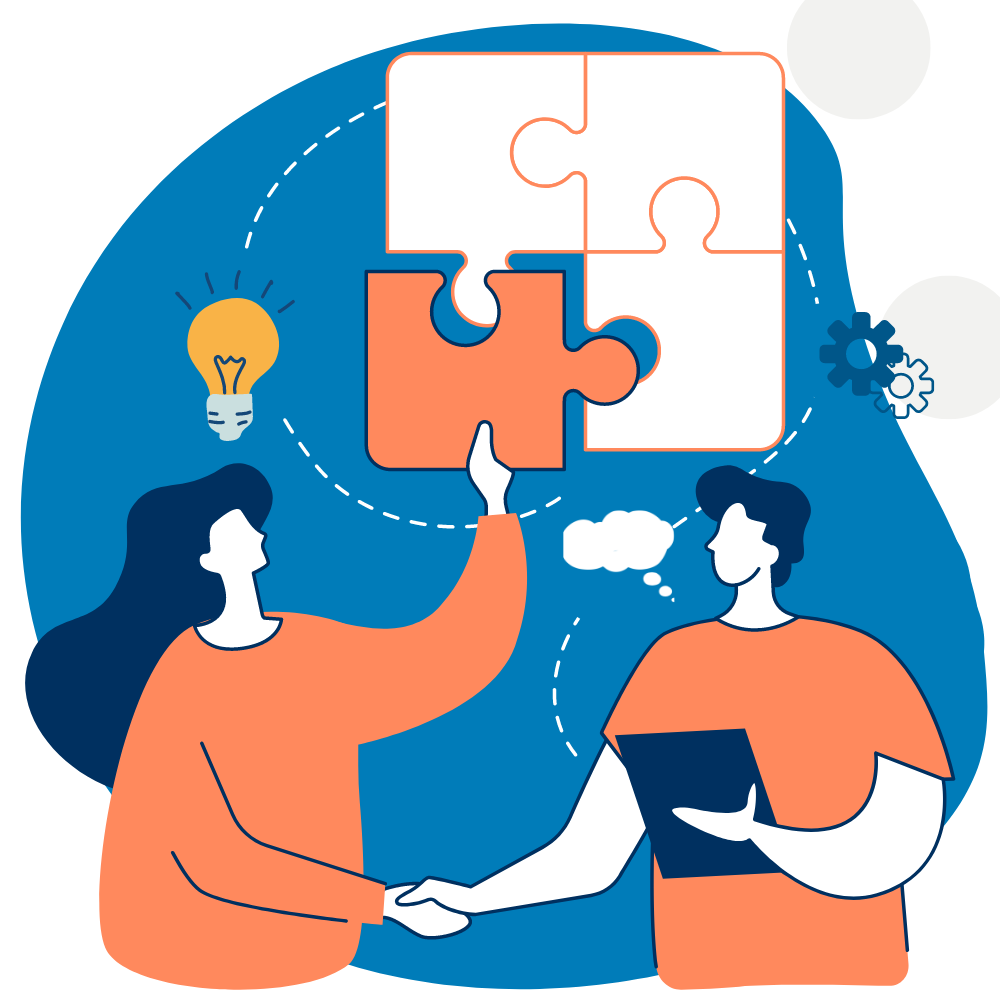
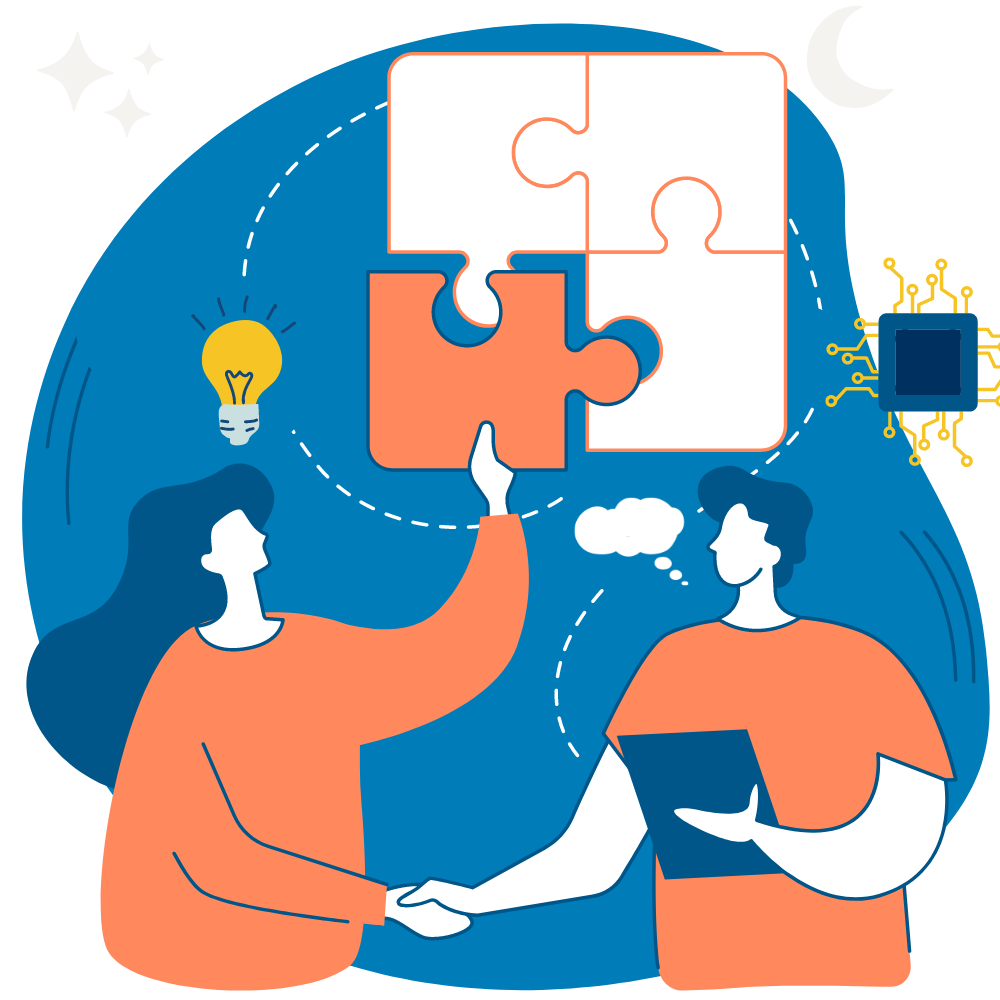
Fixed landing page bugs and adjusted the dark-mode.

diff --git a/frontend/src/components/landingPage/LandingPage.js b/frontend/src/components/landingPage/LandingPage.js
@@ -2,6 +2,9 @@ import React from 'react';
 import { useState } from "react";
 import { useNavigate } from 'react-router-dom';
 import { BsFillMoonStarsFill } from "react-icons/bs";
+import { BsTwitter } from "react-icons/bs";
+import { BsGithub } from "react-icons/bs";
+import { HiOutlineDocumentText } from "react-icons/hi";
 
 export default function LandingPage() {
   const[darkMode, setDarkMode] = useState(false);
@@ -15,7 +18,7 @@ export default function LandingPage() {
             <div className="w-full flex items-center justify-center pt-20">
             <BsFillMoonStarsFill
                   onClick={() => setDarkMode(!darkMode)}
-                  className=" cursor-pointer text-2xl text-navy dark:text-lorange"
+                  className="cursor-pointer text-2xl text-navy dark:text-lorange"
                 />
             </div>
             <section className="bg-cream dark:bg-navy">
@@ -23,12 +26,12 @@ export default function LandingPage() {
                 <div className="mr-auto place-self-center lg:col-span-7">
                   <h1 className="text-navy max-w-4xl mb-6 ml-10 text-4xl font-extrabold tracking-tight leading-none md:text-5xl xl:text-6xl dark:text-cream">Life's too short to hate your job!</h1>
                     <p className=" text-blue max-w-3xl mb-6 ml-10 text-2xl font-medium dark:text-gray-400">Let Career Companion be your personal coach and help you build a career you'll love.</p>
-                      <div className="flex flex-row items-left justify-left sm:items-center sm:justify-center mb-16 ml-10 space-x-6">
-                        <a href="#about" className="w-40 inline-flex items-center justify-center bg-blue hover:bg-lblue border-2 border-blue px-5 py-3 rounded-xl text-base font-bold text-center text-cream bg-primary-700 hover:bg-primary-800 focus:ring-4 focus:ring-primary-300 dark:focus:ring-primary-900" onClick={() => window.scrollTo({ top: document.getElementById("about").offsetTop, behavior: 'smooth' })}>
+                      <div className="flex flex-row items-left justify-left  mb-16 ml-10 space-x-6">
+                        <a href="#about" className="w-40 inline-flex items-center justify-center bg-blue dark:bg-lblue hover:bg-lblue hover:dark:bg-blue border-2 border-blue px-5 py-3 rounded-xl text-base font-bold text-center text-cream bg-primary-700 hover:bg-primary-800 focus:ring-4 focus:ring-primary-300 dark:focus:ring-primary-900" onClick={() => window.scrollTo({ top: document.getElementById("about").offsetTop, behavior: 'smooth' })}>
                           Learn More
                           <svg className="w-5 h-5 ml-2 -mr-1" fill="currentColor" viewBox="0 0 20 20" xmlns="http://www.w3.org/2000/svg"><path fill-rule="evenodd" d="M10.293 3.293a1 1 0 011.414 0l6 6a1 1 0 010 1.414l-6 6a1 1 0 01-1.414-1.414L14.586 11H3a1 1 0 110-2h11.586l-4.293-4.293a1 1 0 010-1.414z" clip-rule="evenodd"></path></svg>
                         </a>
-                        <a href="/signup" className="w-40 inline-flex items-center justify-center px-5 py-3 text-base font-bold text-center text-blue border-2 border-lorange hover:border-blue rounded-xl hover:bg-gray-100 focus:ring-4 focus:ring-gray-100 dark:text-white dark:border-gray-700 dark:hover:bg-gray-700 dark:focus:ring-gray-800" onClick={() => navigate('/signup')}>
+                        <a href="/signup" className="w-40 inline-flex items-center justify-center px-5 py-3 text-base font-bold text-center bg-lorange dark:bg-cream hover:bg-lorange hover:dark:bg-lorange  text-navy dark:text-blue border-2 border-lorange hover:border-blue rounded-xl focus:ring-4 focus:ring-gray-100 dark:border-gray-700 dark:hover:bg-gray-700 dark:focus:ring-gray-800" onClick={() => navigate('/signup')}>
                           Sign Up
                         </a> 
                       </div>
@@ -62,7 +65,7 @@ export default function LandingPage() {
               </div>                
             </div>
             <div className="w-full flex items-center justify-center pt-20 lg:pt-5">
-              <a href="#team" className="w-52 inline-flex items-center justify-center bg-blue hover:bg-lblue px-5 py-3 rounded-xl text-base font-bold text-center text-cream bg-primary-700 hover:bg-primary-800 focus:ring-4 focus:ring-primary-300 dark:focus:ring-primary-900">
+              <a href="#team" className="w-52 inline-flex items-center justify-center bg-blue dark:bg-lblue hover:bg-lblue dark:hover:bg-blue px-5 py-3 rounded-xl text-base font-bold text-center text-cream bg-primary-700 hover:bg-primary-800 focus:ring-4 focus:ring-primary-300 dark:focus:ring-primary-900">
                 Meet the Team 
                 <svg className="w-5 h-5 ml-2 -mr-1" fill="currentColor" viewBox="0 0 20 20" xmlns="http://www.w3.org/2000/svg"><path fill-rule="evenodd" d="M10.293 3.293a1 1 0 011.414 0l6 6a1 1 0 010 1.414l-6 6a1 1 0 01-1.414-1.414L14.586 11H3a1 1 0 110-2h11.586l-4.293-4.293a1 1 0 010-1.414z" clip-rule="evenodd"></path></svg>
               </a>
@@ -74,150 +77,150 @@ export default function LandingPage() {
                 <h2 className="text-navy max-w-4xl mb-6 ml-10 pb-2 text-4xl text-center font-extrabold tracking-tight leading-none md:text-5xl xl:text-6xl dark:text-cream border-b-2 border-lorange border-dashed">OUR TEAM</h2>
               </div> 
               <div className="grid gap-8 mb-6 lg:mb-16 md:grid-cols-2">
-                <div className="h-72 items-center bg-cream border-2 border-lorange rounded-lg shadow sm:flex dark:bg-gray-800 dark:border-gray-700">
+                <div className="h-72 items-center bg-cream border-2 border-lorange rounded-lg shadow sm:flex dark:bg-blue dark:border-lorange">
                   <a href="#">
                     <img className="rounded-full p-2" src="/sarah-avatar.png" alt="Sarah Avatar" />
                   </a>
                   <div className="">
-                    <h3 className="text-xl font-bold tracking-tight text-navy dark:text-navy px-2">
+                    <h3 className="text-xl font-bold tracking-tight text-navy dark:text-cream px-2">
                       Sarah Davies
                     </h3>
-                    <span className="text-blue dark:text-gray-400 px-2">Full-Stack Web Developer</span>
-                    <p className="mt-3 mb-4 font-light text-lblue dark:text-gray-400 px-2">Sarah loves gymming, exploring the Kent wilderness and feeding her wanderlust.</p>
+                    <span className="text-blue dark:text-gray-200 px-2">Full-Stack Web Developer</span>
+                    <p className="mt-3 mb-4 font-light text-lblue dark:text-gray-300 px-2">Sarah loves gymming, exploring the Kent wilderness and feeding her wanderlust.</p>
                     <ul className="flex space-x-4 sm:mt-0 px-2">
                       <li>
                         <a href="#" className="text-navy hover:text-gray-900 dark:hover:text-white">
-                          <svg className="w-5 h-5" fill="currentColor" viewBox="0 0 24 24" aria-hidden="true"><path fill-rule="evenodd" d="M12 2C6.48 2 2 6.48 2 12s4.48 10 10 10c5.51 0 10-4.48 10-10S17.51 2 12 2zm6.605 4.61a8.502 8.502 0 011.93 5.314c-.281-.054-3.101-.629-5.943-.271-.065-.141-.12-.293-.184-.445a25.416 25.416 0 00-.564-1.236c3.145-1.28 4.577-3.124 4.761-3.362zM12 3.475c2.17 0 4.154.813 5.662 2.148-.152.216-1.443 1.941-4.48 3.08-1.399-2.57-2.95-4.675-3.189-5A8.687 8.687 0 0112 3.475zm-3.633.803a53.896 53.896 0 013.167 4.935c-3.992 1.063-7.517 1.04-7.896 1.04a8.581 8.581 0 014.729-5.975zM3.453 12.01v-.26c.37.01 4.512.065 8.775-1.215.25.477.477.965.694 1.453-.109.033-.228.065-.336.098-4.404 1.42-6.747 5.303-6.942 5.629a8.522 8.522 0 01-2.19-5.705zM12 20.547a8.482 8.482 0 01-5.239-1.8c.152-.315 1.888-3.656 6.703-5.337.022-.01.033-.01.054-.022a35.318 35.318 0 011.823 6.475 8.4 8.4 0 01-3.341.684zm4.761-1.465c-.086-.52-.542-3.015-1.659-6.084 2.679-.423 5.022.271 5.314.369a8.468 8.468 0 01-3.655 5.715z" clip-rule="evenodd" /></svg>
+                        <HiOutlineDocumentText className="cursor-pointer text-2xl text-navy dark:text-lorange" />
                         </a>
                       </li>
                       <li>
-                        <a href="#" className="text-lblue hover:text-gray-900 dark:hover:text-white">
-                          <svg className="w-5 h-5" fill="currentColor" viewBox="0 0 24 24" aria-hidden="true"><path d="M8.29 20.251c7.547 0 11.675-6.253 11.675-11.675 0-.178 0-.355-.012-.53A8.348 8.348 0 0022 5.92a8.19 8.19 0 01-2.357.646 4.118 4.118 0 001.804-2.27 8.224 8.224 0 01-2.605.996 4.107 4.107 0 00-6.993 3.743 11.65 11.65 0 01-8.457-4.287 4.106 4.106 0 001.27 5.477A4.072 4.072 0 012.8 9.713v.052a4.105 4.105 0 003.292 4.022 4.095 4.095 0 01-1.853.07 4.108 4.108 0 003.834 2.85A8.233 8.233 0 012 18.407a11.616 11.616 0 006.29 1.84" /></svg>
+                        <a href="#" className="hover:text-gray-900 dark:hover:text-white">
+                          <BsGithub className="cursor-pointer text-2xl text-blue dark:text-lorange" />
                         </a>
                       </li>
                       <li>
-                        <a href="#" className="text-navy hover:text-gray-900 dark:hover:text-white">
-                          <svg className="w-5 h-5" fill="currentColor" viewBox="0 0 24 24" aria-hidden="true"><path fill-rule="evenodd" d="M12 2C6.477 2 2 6.484 2 12.017c0 4.425 2.865 8.18 6.839 9.504.5.092.682-.217.682-.483 0-.237-.008-.868-.013-1.703-2.782.605-3.369-1.343-3.369-1.343-.454-1.158-1.11-1.466-1.11-1.466-.908-.62.069-.608.069-.608 1.003.07 1.531 1.032 1.531 1.032.892 1.53 2.341 1.088 2.91.832.092-.647.35-1.088.636-1.338-2.22-.253-4.555-1.113-4.555-4.951 0-1.093.39-1.988 1.029-2.688-.103-.253-.446-1.272.098-2.65 0 0 .84-.27 2.75 1.026A9.564 9.564 0 0112 6.844c.85.004 1.705.115 2.504.337 1.909-1.296 2.747-1.027 2.747-1.027.546 1.379.202 2.398.1 2.651.64.7 1.028 1.595 1.028 2.688 0 3.848-2.339 4.695-4.566 4.943.359.309.678.92.678 1.855 0 1.338-.012 2.419-.012 2.747 0 .268.18.58.688.482A10.019 10.019 0 0022 12.017C22 6.484 17.522 2 12 2z" clip-rule="evenodd" /></svg>
+                        <a href="#" className="hover:text-gray-900 dark:hover:text-white">
+                          <BsTwitter className="cursor-pointer text-2xl text-lblue dark:text-lorange" />
                         </a>
                       </li>
                     </ul>
                   </div>
                 </div>
 
-                <div className="h-72 items-center bg-cream border-2 border-lorange rounded-lg shadow sm:flex dark:bg-gray-800 dark:border-gray-700">
+                <div className="h-72 items-center bg-cream border-2 border-lorange rounded-lg shadow sm:flex dark:bg-blue dark:border-lorange">
                   <a href="#">
                     <img className="rounded-full p-2" src="/francesco-avatar.png" alt="Francesco Avatar" />
                   </a>
                   <div className="">
-                    <h3 className="text-xl font-bold tracking-tight text-navy dark:text-navy px-2">
+                    <h3 className="text-xl font-bold tracking-tight text-navy dark:text-cream px-2">
                       Francesco Guglielmi
                     </h3>
-                    <span className="text-blue dark:text-gray-400 px-2">Back-end Engineer</span>
-                    <p className="mt-3 mb-4 font-light text-lblue dark:text-gray-400 px-2">Francesco is a rebel at heart. He expresses it by always putting pineapple on a pizza.</p>
+                    <span className="text-blue dark:text-gray-200 px-2">Back-end Engineer</span>
+                    <p className="mt-3 mb-4 font-light text-lblue dark:text-gray-300 px-2">Francesco is a rebel at heart. He expresses it by always putting pineapple on a pizza.</p>
                     <ul className="flex space-x-4 sm:mt-0 px-2">
                       <li>
                         <a href="#" className="text-navy hover:text-gray-900 dark:hover:text-white">
-                          <svg className="w-5 h-5" fill="currentColor" viewBox="0 0 24 24" aria-hidden="true"><path fill-rule="evenodd" d="M12 2C6.48 2 2 6.48 2 12s4.48 10 10 10c5.51 0 10-4.48 10-10S17.51 2 12 2zm6.605 4.61a8.502 8.502 0 011.93 5.314c-.281-.054-3.101-.629-5.943-.271-.065-.141-.12-.293-.184-.445a25.416 25.416 0 00-.564-1.236c3.145-1.28 4.577-3.124 4.761-3.362zM12 3.475c2.17 0 4.154.813 5.662 2.148-.152.216-1.443 1.941-4.48 3.08-1.399-2.57-2.95-4.675-3.189-5A8.687 8.687 0 0112 3.475zm-3.633.803a53.896 53.896 0 013.167 4.935c-3.992 1.063-7.517 1.04-7.896 1.04a8.581 8.581 0 014.729-5.975zM3.453 12.01v-.26c.37.01 4.512.065 8.775-1.215.25.477.477.965.694 1.453-.109.033-.228.065-.336.098-4.404 1.42-6.747 5.303-6.942 5.629a8.522 8.522 0 01-2.19-5.705zM12 20.547a8.482 8.482 0 01-5.239-1.8c.152-.315 1.888-3.656 6.703-5.337.022-.01.033-.01.054-.022a35.318 35.318 0 011.823 6.475 8.4 8.4 0 01-3.341.684zm4.761-1.465c-.086-.52-.542-3.015-1.659-6.084 2.679-.423 5.022.271 5.314.369a8.468 8.468 0 01-3.655 5.715z" clip-rule="evenodd" /></svg>
+                        <HiOutlineDocumentText className="cursor-pointer text-2xl text-navy dark:text-lorange" />
                         </a>
                       </li>
                       <li>
-                        <a href="#" className="text-lblue hover:text-gray-900 dark:hover:text-white">
-                          <svg className="w-5 h-5" fill="currentColor" viewBox="0 0 24 24" aria-hidden="true"><path d="M8.29 20.251c7.547 0 11.675-6.253 11.675-11.675 0-.178 0-.355-.012-.53A8.348 8.348 0 0022 5.92a8.19 8.19 0 01-2.357.646 4.118 4.118 0 001.804-2.27 8.224 8.224 0 01-2.605.996 4.107 4.107 0 00-6.993 3.743 11.65 11.65 0 01-8.457-4.287 4.106 4.106 0 001.27 5.477A4.072 4.072 0 012.8 9.713v.052a4.105 4.105 0 003.292 4.022 4.095 4.095 0 01-1.853.07 4.108 4.108 0 003.834 2.85A8.233 8.233 0 012 18.407a11.616 11.616 0 006.29 1.84" /></svg>
+                        <a href="#" className="hover:text-gray-900 dark:hover:text-white">
+                          <BsGithub className="cursor-pointer text-2xl text-blue dark:text-lorange" />
                         </a>
                       </li>
                       <li>
-                        <a href="#" className="text-navy hover:text-gray-900 dark:hover:text-white">
-                          <svg className="w-5 h-5" fill="currentColor" viewBox="0 0 24 24" aria-hidden="true"><path fill-rule="evenodd" d="M12 2C6.477 2 2 6.484 2 12.017c0 4.425 2.865 8.18 6.839 9.504.5.092.682-.217.682-.483 0-.237-.008-.868-.013-1.703-2.782.605-3.369-1.343-3.369-1.343-.454-1.158-1.11-1.466-1.11-1.466-.908-.62.069-.608.069-.608 1.003.07 1.531 1.032 1.531 1.032.892 1.53 2.341 1.088 2.91.832.092-.647.35-1.088.636-1.338-2.22-.253-4.555-1.113-4.555-4.951 0-1.093.39-1.988 1.029-2.688-.103-.253-.446-1.272.098-2.65 0 0 .84-.27 2.75 1.026A9.564 9.564 0 0112 6.844c.85.004 1.705.115 2.504.337 1.909-1.296 2.747-1.027 2.747-1.027.546 1.379.202 2.398.1 2.651.64.7 1.028 1.595 1.028 2.688 0 3.848-2.339 4.695-4.566 4.943.359.309.678.92.678 1.855 0 1.338-.012 2.419-.012 2.747 0 .268.18.58.688.482A10.019 10.019 0 0022 12.017C22 6.484 17.522 2 12 2z" clip-rule="evenodd" /></svg>
+                        <a href="#" className="hover:text-gray-900 dark:hover:text-white">
+                          <BsTwitter className="cursor-pointer text-2xl text-lblue dark:text-lorange" />
                         </a>
                       </li>
                     </ul>
                   </div>
                 </div>
                 
-                <div className="h-72 items-center bg-cream border-2 border-lorange rounded-lg shadow sm:flex dark:bg-gray-800 dark:border-gray-700">
+                <div className="h-72 items-center bg-cream border-2 border-lorange rounded-lg shadow sm:flex dark:bg-blue dark:border-lorange">
                   <a href="#">
                     <img className="rounded-full p-2" src="/adnan-avatar.png" alt="Adnan Avatar" />
                   </a>
                   <div className="">
-                    <h3 className="text-xl font-bold tracking-tight text-navy dark:text-navy px-2">
+                    <h3 className="text-xl font-bold tracking-tight text-navy dark:text-cream px-2">
                       Adnan Mann
                     </h3>
-                    <span className="text-blue dark:text-gray-400 px-2">Full-Stack Web Developer</span>
-                    <p className="mt-3 mb-4 font-light text-lblue dark:text-gray-400 px-2">Adnan loves tutorials and story-telling. Perhaps he even loves the latter a bit too much.</p>
+                    <span className="text-blue dark:text-gray-200 px-2">Full-Stack Web Developer</span>
+                    <p className="mt-3 mb-4 font-light text-lblue dark:text-gray-300 px-2">Adnan loves tutorials and story-telling. Perhaps he even loves the latter a bit too much.</p>
                     <ul className="flex space-x-4 sm:mt-0 px-2">
                       <li>
                         <a href="#" className="text-navy hover:text-gray-900 dark:hover:text-white">
-                          <svg className="w-5 h-5" fill="currentColor" viewBox="0 0 24 24" aria-hidden="true"><path fill-rule="evenodd" d="M12 2C6.48 2 2 6.48 2 12s4.48 10 10 10c5.51 0 10-4.48 10-10S17.51 2 12 2zm6.605 4.61a8.502 8.502 0 011.93 5.314c-.281-.054-3.101-.629-5.943-.271-.065-.141-.12-.293-.184-.445a25.416 25.416 0 00-.564-1.236c3.145-1.28 4.577-3.124 4.761-3.362zM12 3.475c2.17 0 4.154.813 5.662 2.148-.152.216-1.443 1.941-4.48 3.08-1.399-2.57-2.95-4.675-3.189-5A8.687 8.687 0 0112 3.475zm-3.633.803a53.896 53.896 0 013.167 4.935c-3.992 1.063-7.517 1.04-7.896 1.04a8.581 8.581 0 014.729-5.975zM3.453 12.01v-.26c.37.01 4.512.065 8.775-1.215.25.477.477.965.694 1.453-.109.033-.228.065-.336.098-4.404 1.42-6.747 5.303-6.942 5.629a8.522 8.522 0 01-2.19-5.705zM12 20.547a8.482 8.482 0 01-5.239-1.8c.152-.315 1.888-3.656 6.703-5.337.022-.01.033-.01.054-.022a35.318 35.318 0 011.823 6.475 8.4 8.4 0 01-3.341.684zm4.761-1.465c-.086-.52-.542-3.015-1.659-6.084 2.679-.423 5.022.271 5.314.369a8.468 8.468 0 01-3.655 5.715z" clip-rule="evenodd" /></svg>
+                        <HiOutlineDocumentText className="cursor-pointer text-2xl text-navy dark:text-lorange" />
                         </a>
                       </li>
                       <li>
-                        <a href="#" className="text-lblue hover:text-gray-900 dark:hover:text-white">
-                          <svg className="w-5 h-5" fill="currentColor" viewBox="0 0 24 24" aria-hidden="true"><path d="M8.29 20.251c7.547 0 11.675-6.253 11.675-11.675 0-.178 0-.355-.012-.53A8.348 8.348 0 0022 5.92a8.19 8.19 0 01-2.357.646 4.118 4.118 0 001.804-2.27 8.224 8.224 0 01-2.605.996 4.107 4.107 0 00-6.993 3.743 11.65 11.65 0 01-8.457-4.287 4.106 4.106 0 001.27 5.477A4.072 4.072 0 012.8 9.713v.052a4.105 4.105 0 003.292 4.022 4.095 4.095 0 01-1.853.07 4.108 4.108 0 003.834 2.85A8.233 8.233 0 012 18.407a11.616 11.616 0 006.29 1.84" /></svg>
+                        <a href="#" className="hover:text-gray-900 dark:hover:text-white">
+                          <BsGithub className="cursor-pointer text-2xl text-blue dark:text-lorange" />
                         </a>
                       </li>
                       <li>
-                        <a href="#" className="text-navy hover:text-gray-900 dark:hover:text-white">
-                          <svg className="w-5 h-5" fill="currentColor" viewBox="0 0 24 24" aria-hidden="true"><path fill-rule="evenodd" d="M12 2C6.477 2 2 6.484 2 12.017c0 4.425 2.865 8.18 6.839 9.504.5.092.682-.217.682-.483 0-.237-.008-.868-.013-1.703-2.782.605-3.369-1.343-3.369-1.343-.454-1.158-1.11-1.466-1.11-1.466-.908-.62.069-.608.069-.608 1.003.07 1.531 1.032 1.531 1.032.892 1.53 2.341 1.088 2.91.832.092-.647.35-1.088.636-1.338-2.22-.253-4.555-1.113-4.555-4.951 0-1.093.39-1.988 1.029-2.688-.103-.253-.446-1.272.098-2.65 0 0 .84-.27 2.75 1.026A9.564 9.564 0 0112 6.844c.85.004 1.705.115 2.504.337 1.909-1.296 2.747-1.027 2.747-1.027.546 1.379.202 2.398.1 2.651.64.7 1.028 1.595 1.028 2.688 0 3.848-2.339 4.695-4.566 4.943.359.309.678.92.678 1.855 0 1.338-.012 2.419-.012 2.747 0 .268.18.58.688.482A10.019 10.019 0 0022 12.017C22 6.484 17.522 2 12 2z" clip-rule="evenodd" /></svg>
+                        <a href="#" className="hover:text-gray-900 dark:hover:text-white">
+                          <BsTwitter className="cursor-pointer text-2xl text-lblue dark:text-lorange" />
                         </a>
                       </li>
                     </ul>
                   </div>
                 </div>
 
-                <div className="h-72 items-center bg-cream border-2 border-lorange rounded-lg shadow sm:flex dark:bg-gray-800 dark:border-gray-700">
+                <div className="h-72 items-center bg-cream border-2 border-lorange rounded-lg shadow sm:flex dark:bg-blue dark:border-lorange">
                   <a href="#">
                     <img className="rounded-full p-2" src="/konrad-avatar.png" alt="Konrad Avatar" />
                   </a>
                   <div className="">
-                    <h3 className="text-xl font-bold tracking-tight text-navy dark:text-navy px-2">
+                    <h3 className="text-xl font-bold tracking-tight text-navy dark:text-cream px-2">
                       Konrad Duński
                     </h3>
-                    <span className="text-blue dark:text-gray-400 px-2">Front-end Engineer</span>
-                    <p className="mt-3 mb-4 font-light text-lblue dark:text-gray-400 px-2">Konrad has always been a class clown. Suffice to say he still is. Handsome though.</p>
+                    <span className="text-blue dark:text-gray-200 px-2">Front-end Engineer</span>
+                    <p className="mt-3 mb-4 font-light text-lblue dark:text-gray-300 px-2">Konrad has always been a class clown. Suffice to say he still is. Handsome though.</p>
                     <ul className="flex space-x-4 sm:mt-0 px-2">
                       <li>
                         <a href="#" className="text-navy hover:text-gray-900 dark:hover:text-white">
-                          <svg className="w-5 h-5" fill="currentColor" viewBox="0 0 24 24" aria-hidden="true"><path fill-rule="evenodd" d="M12 2C6.48 2 2 6.48 2 12s4.48 10 10 10c5.51 0 10-4.48 10-10S17.51 2 12 2zm6.605 4.61a8.502 8.502 0 011.93 5.314c-.281-.054-3.101-.629-5.943-.271-.065-.141-.12-.293-.184-.445a25.416 25.416 0 00-.564-1.236c3.145-1.28 4.577-3.124 4.761-3.362zM12 3.475c2.17 0 4.154.813 5.662 2.148-.152.216-1.443 1.941-4.48 3.08-1.399-2.57-2.95-4.675-3.189-5A8.687 8.687 0 0112 3.475zm-3.633.803a53.896 53.896 0 013.167 4.935c-3.992 1.063-7.517 1.04-7.896 1.04a8.581 8.581 0 014.729-5.975zM3.453 12.01v-.26c.37.01 4.512.065 8.775-1.215.25.477.477.965.694 1.453-.109.033-.228.065-.336.098-4.404 1.42-6.747 5.303-6.942 5.629a8.522 8.522 0 01-2.19-5.705zM12 20.547a8.482 8.482 0 01-5.239-1.8c.152-.315 1.888-3.656 6.703-5.337.022-.01.033-.01.054-.022a35.318 35.318 0 011.823 6.475 8.4 8.4 0 01-3.341.684zm4.761-1.465c-.086-.52-.542-3.015-1.659-6.084 2.679-.423 5.022.271 5.314.369a8.468 8.468 0 01-3.655 5.715z" clip-rule="evenodd" /></svg>
+                        <HiOutlineDocumentText className="cursor-pointer text-2xl text-navy dark:text-lorange" />
                         </a>
                       </li>
                       <li>
-                        <a href="#" className="text-lblue hover:text-gray-900 dark:hover:text-white">
-                          <svg className="w-5 h-5" fill="currentColor" viewBox="0 0 24 24" aria-hidden="true"><path d="M8.29 20.251c7.547 0 11.675-6.253 11.675-11.675 0-.178 0-.355-.012-.53A8.348 8.348 0 0022 5.92a8.19 8.19 0 01-2.357.646 4.118 4.118 0 001.804-2.27 8.224 8.224 0 01-2.605.996 4.107 4.107 0 00-6.993 3.743 11.65 11.65 0 01-8.457-4.287 4.106 4.106 0 001.27 5.477A4.072 4.072 0 012.8 9.713v.052a4.105 4.105 0 003.292 4.022 4.095 4.095 0 01-1.853.07 4.108 4.108 0 003.834 2.85A8.233 8.233 0 012 18.407a11.616 11.616 0 006.29 1.84" /></svg>
+                        <a href="#" className="hover:text-gray-900 dark:hover:text-white">
+                          <BsGithub className="cursor-pointer text-2xl text-blue dark:text-lorange" />
                         </a>
                       </li>
                       <li>
-                        <a href="#" className="text-navy hover:text-gray-900 dark:hover:text-white">
-                          <svg className="w-5 h-5" fill="currentColor" viewBox="0 0 24 24" aria-hidden="true"><path fill-rule="evenodd" d="M12 2C6.477 2 2 6.484 2 12.017c0 4.425 2.865 8.18 6.839 9.504.5.092.682-.217.682-.483 0-.237-.008-.868-.013-1.703-2.782.605-3.369-1.343-3.369-1.343-.454-1.158-1.11-1.466-1.11-1.466-.908-.62.069-.608.069-.608 1.003.07 1.531 1.032 1.531 1.032.892 1.53 2.341 1.088 2.91.832.092-.647.35-1.088.636-1.338-2.22-.253-4.555-1.113-4.555-4.951 0-1.093.39-1.988 1.029-2.688-.103-.253-.446-1.272.098-2.65 0 0 .84-.27 2.75 1.026A9.564 9.564 0 0112 6.844c.85.004 1.705.115 2.504.337 1.909-1.296 2.747-1.027 2.747-1.027.546 1.379.202 2.398.1 2.651.64.7 1.028 1.595 1.028 2.688 0 3.848-2.339 4.695-4.566 4.943.359.309.678.92.678 1.855 0 1.338-.012 2.419-.012 2.747 0 .268.18.58.688.482A10.019 10.019 0 0022 12.017C22 6.484 17.522 2 12 2z" clip-rule="evenodd" /></svg>
+                        <a href="#" className="hover:text-gray-900 dark:hover:text-white">
+                          <BsTwitter className="cursor-pointer text-2xl text-lblue dark:text-lorange" />
                         </a>
                       </li>
                     </ul>
                   </div>
                 </div>
 
-                <div className="h-72 items-center bg-cream border-2 border-lorange rounded-lg shadow sm:flex dark:bg-gray-800 dark:border-gray-700">
+                <div className="h-72 items-center bg-cream border-2 border-lorange rounded-lg shadow sm:flex dark:bg-blue dark:border-lorange">
                   <a href="#">
                     <img className="rounded-full p-2" src="/kassandra-avatar.png" alt="Kassandra Avatar" />
                   </a>
                   <div className="">
-                    <h3 className="text-xl font-bold tracking-tight text-navy dark:text-navy px-2">
+                    <h3 className="text-xl font-bold tracking-tight text-navy dark:text-cream px-2">
                       Kassandra Kalejaye
                     </h3>
-                    <span className="text-blue dark:text-gray-400 px-2">Full-Stack Web Developer</span>
-                    <p className="mt-3 mb-4 font-light text-lblue dark:text-gray-400 px-2">Kassandra loves Hunger Games trilogy, Love Island and RuPaul's Drag Race.</p>
+                    <span className="text-blue dark:text-gray-200 px-2">Full-Stack Web Developer</span>
+                    <p className="mt-3 mb-4 font-light text-lblue dark:text-gray-300 px-2">Kassandra loves Hunger Games trilogy, Love Island and RuPaul's Drag Race.</p>
                     <ul className="flex space-x-4 sm:mt-0 px-2">
                       <li>
                         <a href="#" className="text-navy hover:text-gray-900 dark:hover:text-white">
-                          <svg className="w-5 h-5" fill="currentColor" viewBox="0 0 24 24" aria-hidden="true"><path fill-rule="evenodd" d="M12 2C6.48 2 2 6.48 2 12s4.48 10 10 10c5.51 0 10-4.48 10-10S17.51 2 12 2zm6.605 4.61a8.502 8.502 0 011.93 5.314c-.281-.054-3.101-.629-5.943-.271-.065-.141-.12-.293-.184-.445a25.416 25.416 0 00-.564-1.236c3.145-1.28 4.577-3.124 4.761-3.362zM12 3.475c2.17 0 4.154.813 5.662 2.148-.152.216-1.443 1.941-4.48 3.08-1.399-2.57-2.95-4.675-3.189-5A8.687 8.687 0 0112 3.475zm-3.633.803a53.896 53.896 0 013.167 4.935c-3.992 1.063-7.517 1.04-7.896 1.04a8.581 8.581 0 014.729-5.975zM3.453 12.01v-.26c.37.01 4.512.065 8.775-1.215.25.477.477.965.694 1.453-.109.033-.228.065-.336.098-4.404 1.42-6.747 5.303-6.942 5.629a8.522 8.522 0 01-2.19-5.705zM12 20.547a8.482 8.482 0 01-5.239-1.8c.152-.315 1.888-3.656 6.703-5.337.022-.01.033-.01.054-.022a35.318 35.318 0 011.823 6.475 8.4 8.4 0 01-3.341.684zm4.761-1.465c-.086-.52-.542-3.015-1.659-6.084 2.679-.423 5.022.271 5.314.369a8.468 8.468 0 01-3.655 5.715z" clip-rule="evenodd" /></svg>
+                        <HiOutlineDocumentText className="cursor-pointer text-2xl text-navy dark:text-lorange" />
                         </a>
                       </li>
                       <li>
-                        <a href="#" className="text-lblue hover:text-gray-900 dark:hover:text-white">
-                          <svg className="w-5 h-5" fill="currentColor" viewBox="0 0 24 24" aria-hidden="true"><path d="M8.29 20.251c7.547 0 11.675-6.253 11.675-11.675 0-.178 0-.355-.012-.53A8.348 8.348 0 0022 5.92a8.19 8.19 0 01-2.357.646 4.118 4.118 0 001.804-2.27 8.224 8.224 0 01-2.605.996 4.107 4.107 0 00-6.993 3.743 11.65 11.65 0 01-8.457-4.287 4.106 4.106 0 001.27 5.477A4.072 4.072 0 012.8 9.713v.052a4.105 4.105 0 003.292 4.022 4.095 4.095 0 01-1.853.07 4.108 4.108 0 003.834 2.85A8.233 8.233 0 012 18.407a11.616 11.616 0 006.29 1.84" /></svg>
+                        <a href="#" className="hover:text-gray-900 dark:hover:text-white">
+                          <BsGithub className="cursor-pointer text-2xl text-blue dark:text-lorange" />
                         </a>
                       </li>
                       <li>
-                        <a href="#" className="text-navy hover:text-gray-900 dark:hover:text-white">
-                          <svg className="w-5 h-5" fill="currentColor" viewBox="0 0 24 24" aria-hidden="true"><path fill-rule="evenodd" d="M12 2C6.477 2 2 6.484 2 12.017c0 4.425 2.865 8.18 6.839 9.504.5.092.682-.217.682-.483 0-.237-.008-.868-.013-1.703-2.782.605-3.369-1.343-3.369-1.343-.454-1.158-1.11-1.466-1.11-1.466-.908-.62.069-.608.069-.608 1.003.07 1.531 1.032 1.531 1.032.892 1.53 2.341 1.088 2.91.832.092-.647.35-1.088.636-1.338-2.22-.253-4.555-1.113-4.555-4.951 0-1.093.39-1.988 1.029-2.688-.103-.253-.446-1.272.098-2.65 0 0 .84-.27 2.75 1.026A9.564 9.564 0 0112 6.844c.85.004 1.705.115 2.504.337 1.909-1.296 2.747-1.027 2.747-1.027.546 1.379.202 2.398.1 2.651.64.7 1.028 1.595 1.028 2.688 0 3.848-2.339 4.695-4.566 4.943.359.309.678.92.678 1.855 0 1.338-.012 2.419-.012 2.747 0 .268.18.58.688.482A10.019 10.019 0 0022 12.017C22 6.484 17.522 2 12 2z" clip-rule="evenodd" /></svg>
+                        <a href="#" className="hover:text-gray-900 dark:hover:text-white">
+                          <BsTwitter className="cursor-pointer text-2xl text-lblue dark:text-lorange" />
                         </a>
                       </li>
                     </ul>
@@ -226,7 +229,7 @@ export default function LandingPage() {
               </div>  
             </div>
             <div className="w-full flex items-center justify-center pt-20 lg:pt-5">
-              <a href="#features" className="w-52 inline-flex items-center justify-center bg-blue hover:bg-lblue px-5 py-3 mb-36 rounded-xl text-base font-bold text-center text-cream bg-primary-700 hover:bg-primary-800 focus:ring-4 focus:ring-primary-300 dark:focus:ring-primary-900">
+              <a href="#features" className="w-52 inline-flex items-center justify-center bg-blue dark:bg-lblue hover:bg-lblue hover:dark:bg-blue px-5 py-3 mb-36 rounded-xl text-base font-bold text-center text-cream bg-primary-700 hover:bg-primary-800 focus:ring-4 focus:ring-primary-300 dark:focus:ring-primary-900">
                 See Features
                 <svg className="w-5 h-5 ml-2 -mr-1" fill="currentColor" viewBox="0 0 20 20" xmlns="http://www.w3.org/2000/svg"><path fill-rule="evenodd" d="M10.293 3.293a1 1 0 011.414 0l6 6a1 1 0 010 1.414l-6 6a1 1 0 01-1.414-1.414L14.586 11H3a1 1 0 110-2h11.586l-4.293-4.293a1 1 0 010-1.414z" clip-rule="evenodd"></path></svg>
               </a>
@@ -237,60 +240,60 @@ export default function LandingPage() {
               FEATURES
             </h1>
           </div>
-          <section className="bg-cream dark:bg-gray-900">
+          <section className="bg-cream dark:bg-navy">
             <div className="py-8 px-4 mx-auto max-w-screen-xl sm:py-16 lg:px-6">
               <div className="space-y-8 md:grid md:grid-cols-2 lg:grid-cols-3 md:gap-12 md:space-y-0">
                 <div>
                   <div className="flex justify-center items-center mb-4 w-10 h-10 rounded-full bg-primary-100 lg:h-12 lg:w-12 dark:bg-primary-900 text-navy">
-                    <svg className="w-5 h-5 text-primary-600 lg:w-6 lg:h-6 dark:text-primary-300" fill="currentColor" viewBox="0 0 20 20" xmlns="http://www.w3.org/2000/svg"><path fill-rule="evenodd" d="M3 3a1 1 0 000 2v8a2 2 0 002 2h2.586l-1.293 1.293a1 1 0 101.414 1.414L10 15.414l2.293 2.293a1 1 0 001.414-1.414L12.414 15H15a2 2 0 002-2V5a1 1 0 100-2H3zm11.707 4.707a1 1 0 00-1.414-1.414L10 9.586 8.707 8.293a1 1 0 00-1.414 0l-2 2a1 1 0 101.414 1.414L8 10.414l1.293 1.293a1 1 0 001.414 0l4-4z" clip-rule="evenodd"></path></svg>
+                    <svg className="w-5 h-5 text-primary-600 lg:w-6 lg:h-6 dark:text-lorange" fill="currentColor" viewBox="0 0 20 20" xmlns="http://www.w3.org/2000/svg"><path fill-rule="evenodd" d="M3 3a1 1 0 000 2v8a2 2 0 002 2h2.586l-1.293 1.293a1 1 0 101.414 1.414L10 15.414l2.293 2.293a1 1 0 001.414-1.414L12.414 15H15a2 2 0 002-2V5a1 1 0 100-2H3zm11.707 4.707a1 1 0 00-1.414-1.414L10 9.586 8.707 8.293a1 1 0 00-1.414 0l-2 2a1 1 0 101.414 1.414L8 10.414l1.293 1.293a1 1 0 001.414 0l4-4z" clip-rule="evenodd"></path></svg>
                   </div>
                   <h3 className="mb-2 text-xl font-bold text-navy dark:text-white">Job Applications Tracker</h3>
-                  <p className="text-blue dark:text-gray-400">Plan it, create it, launch it. Collaborate seamlessly with all  the organization and hit your marketing goals every month with our marketing plan.</p>
+                  <p className="text-blue dark:text-gray-200">Keep track of all your job applications in one place, with real-time updates on their status, deadlines, and other details to help you stay organized and on top of your job search.</p>
                 </div>
                 <div>
                   <div className="flex justify-center items-center mb-4 w-10 h-10 rounded-full bg-primary-100 lg:h-12 lg:w-12 dark:bg-primary-900 text-blue">
-                    <svg className="w-5 h-5 text-primary-600 lg:w-6 lg:h-6 dark:text-primary-300" fill="currentColor" viewBox="0 0 20 20" xmlns="http://www.w3.org/2000/svg"><path d="M10.394 2.08a1 1 0 00-.788 0l-7 3a1 1 0 000 1.84L5.25 8.051a.999.999 0 01.356-.257l4-1.714a1 1 0 11.788 1.838L7.667 9.088l1.94.831a1 1 0 00.787 0l7-3a1 1 0 000-1.838l-7-3zM3.31 9.397L5 10.12v4.102a8.969 8.969 0 00-1.05-.174 1 1 0 01-.89-.89 11.115 11.115 0 01.25-3.762zM9.3 16.573A9.026 9.026 0 007 14.935v-3.957l1.818.78a3 3 0 002.364 0l5.508-2.361a11.026 11.026 0 01.25 3.762 1 1 0 01-.89.89 8.968 8.968 0 00-5.35 2.524 1 1 0 01-1.4 0zM6 18a1 1 0 001-1v-2.065a8.935 8.935 0 00-2-.712V17a1 1 0 001 1z"></path></svg>
+                    <svg className="w-5 h-5 text-primary-600 lg:w-6 lg:h-6 dark:text-lorange" fill="currentColor" viewBox="0 0 20 20" xmlns="http://www.w3.org/2000/svg"><path d="M10.394 2.08a1 1 0 00-.788 0l-7 3a1 1 0 000 1.84L5.25 8.051a.999.999 0 01.356-.257l4-1.714a1 1 0 11.788 1.838L7.667 9.088l1.94.831a1 1 0 00.787 0l7-3a1 1 0 000-1.838l-7-3zM3.31 9.397L5 10.12v4.102a8.969 8.969 0 00-1.05-.174 1 1 0 01-.89-.89 11.115 11.115 0 01.25-3.762zM9.3 16.573A9.026 9.026 0 007 14.935v-3.957l1.818.78a3 3 0 002.364 0l5.508-2.361a11.026 11.026 0 01.25 3.762 1 1 0 01-.89.89 8.968 8.968 0 00-5.35 2.524 1 1 0 01-1.4 0zM6 18a1 1 0 001-1v-2.065a8.935 8.935 0 00-2-.712V17a1 1 0 001 1z"></path></svg>
                   </div>
                   <h3 className="mb-2 text-xl font-bold text-navy dark:text-white">Interview Training</h3>
-                  <p className="text-blue dark:text-gray-400">Protect your organization, devices and stay compliant with our structured workflows and custom permissions made for you.</p>
+                  <p className="text-blue dark:text-gray-200">Get personalized feedback on your interview skills, with tips and insights from artificial intelligence that can help you improve your performance and increase your chances of landing your dream job.</p>
                 </div>
                 <div>
                   <div className="flex justify-center items-center mb-4 w-10 h-10 rounded-full bg-primary-100 lg:h-12 lg:w-12 dark:bg-primary-900 text-light-blue-700">
-                    <svg className="w-5 h-5 text-primary-600 lg:w-6 lg:h-6 dark:text-primary-300" fill="currentColor" viewBox="0 0 20 20" xmlns="http://www.w3.org/2000/svg"><path fill-rule="evenodd" d="M6 6V5a3 3 0 013-3h2a3 3 0 013 3v1h2a2 2 0 012 2v3.57A22.952 22.952 0 0110 13a22.95 22.95 0 01-8-1.43V8a2 2 0 012-2h2zm2-1a1 1 0 011-1h2a1 1 0 011 1v1H8V5zm1 5a1 1 0 011-1h.01a1 1 0 110 2H10a1 1 0 01-1-1z" clip-rule="evenodd"></path><path d="M2 13.692V16a2 2 0 002 2h12a2 2 0 002-2v-2.308A24.974 24.974 0 0110 15c-2.796 0-5.487-.46-8-1.308z"></path></svg>                    
+                    <svg className="w-5 h-5 text-primary-600 lg:w-6 lg:h-6 dark:text-lorange" fill="currentColor" viewBox="0 0 20 20" xmlns="http://www.w3.org/2000/svg"><path fill-rule="evenodd" d="M6 6V5a3 3 0 013-3h2a3 3 0 013 3v1h2a2 2 0 012 2v3.57A22.952 22.952 0 0110 13a22.95 22.95 0 01-8-1.43V8a2 2 0 012-2h2zm2-1a1 1 0 011-1h2a1 1 0 011 1v1H8V5zm1 5a1 1 0 011-1h.01a1 1 0 110 2H10a1 1 0 01-1-1z" clip-rule="evenodd"></path><path d="M2 13.692V16a2 2 0 002 2h12a2 2 0 002-2v-2.308A24.974 24.974 0 0110 15c-2.796 0-5.487-.46-8-1.308z"></path></svg>                    
                   </div>
                   <h3 className="mb-2 text-xl font-bold text-navy dark:text-white">Resume Builder</h3>
-                  <p className="text-blue dark:text-gray-400">Auto-assign tasks, send Slack messages, and much more. Now power up with hundreds of new templates to help you get started.</p>
+                  <p className="text-blue dark:text-gray-200">Create a professional, eye-catching resume in minutes, with customizable templates, expert guidance, and real-time previews that make it easy to showcase your skills, experience, and achievements.</p>
                 </div>
                 <div>
                   <div className="flex justify-center items-center mb-4 w-10 h-10 rounded-full bg-primary-100 lg:h-12 lg:w-12 dark:bg-primary-900 text-light-blue-500">
-                    <svg className="w-5 h-5 text-primary-600 lg:w-6 lg:h-6 dark:text-primary-300" fill="currentColor" viewBox="0 0 20 20" xmlns="http://www.w3.org/2000/svg"><path d="M7 3a1 1 0 000 2h6a1 1 0 100-2H7zM4 7a1 1 0 011-1h10a1 1 0 110 2H5a1 1 0 01-1-1zM2 11a2 2 0 012-2h12a2 2 0 012 2v4a2 2 0 01-2 2H4a2 2 0 01-2-2v-4z"></path></svg>
+                    <svg className="w-5 h-5 text-primary-600 lg:w-6 lg:h-6 dark:dark:text-lorange" fill="currentColor" viewBox="0 0 20 20" xmlns="http://www.w3.org/2000/svg"><path d="M7 3a1 1 0 000 2h6a1 1 0 100-2H7zM4 7a1 1 0 011-1h10a1 1 0 110 2H5a1 1 0 01-1-1zM2 11a2 2 0 012-2h12a2 2 0 012 2v4a2 2 0 01-2 2H4a2 2 0 01-2-2v-4z"></path></svg>
                   </div>
                   <h3 className="mb-2 text-xl text-navy font-bold dark:text-white">Cover Letter Generator</h3>
-                  <p className="text-blue dark:text-gray-400">Craft beautiful, delightful experiences for both marketing and product with real cross-company collaboration.</p>
+                  <p className="text-blue dark:text-gray-200">Craft a compelling cover letter that stands out from the crowd, with customizable templates, expert guidance, and real-time previews that help you highlight your strengths and explain why you're the right candidate for the job.</p>
                 </div>
                 <div>
                   <div className="flex justify-center items-center mb-4 w-10 h-10 rounded-full bg-primary-100 lg:h-12 lg:w-12 dark:bg-primary-900 text-light-blue-300">
-                    <svg className="w-5 h-5 text-primary-600 lg:w-6 lg:h-6 dark:text-primary-300" fill="currentColor" viewBox="0 0 20 20" xmlns="http://www.w3.org/2000/svg"><path fill-rule="evenodd" d="M11.49 3.17c-.38-1.56-2.6-1.56-2.98 0a1.532 1.532 0 01-2.286.948c-1.372-.836-2.942.734-2.106 2.106.54.886.061 2.042-.947 2.287-1.561.379-1.561 2.6 0 2.978a1.532 1.532 0 01.947 2.287c-.836 1.372.734 2.942 2.106 2.106a1.532 1.532 0 012.287.947c.379 1.561 2.6 1.561 2.978 0a1.533 1.533 0 012.287-.947c1.372.836 2.942-.734 2.106-2.106a1.533 1.533 0 01.947-2.287c1.561-.379 1.561-2.6 0-2.978a1.532 1.532 0 01-.947-2.287c.836-1.372-.734-2.942-2.106-2.106a1.532 1.532 0 01-2.287-.947zM10 13a3 3 0 100-6 3 3 0 000 6z" clip-rule="evenodd"></path></svg>
+                    <svg className="w-5 h-5 text-primary-600 lg:w-6 lg:h-6 dark:text-lorange" fill="currentColor" viewBox="0 0 20 20" xmlns="http://www.w3.org/2000/svg"><path fill-rule="evenodd" d="M11.49 3.17c-.38-1.56-2.6-1.56-2.98 0a1.532 1.532 0 01-2.286.948c-1.372-.836-2.942.734-2.106 2.106.54.886.061 2.042-.947 2.287-1.561.379-1.561 2.6 0 2.978a1.532 1.532 0 01.947 2.287c-.836 1.372.734 2.942 2.106 2.106a1.532 1.532 0 012.287.947c.379 1.561 2.6 1.561 2.978 0a1.533 1.533 0 012.287-.947c1.372.836 2.942-.734 2.106-2.106a1.533 1.533 0 01.947-2.287c1.561-.379 1.561-2.6 0-2.978a1.532 1.532 0 01-.947-2.287c.836-1.372-.734-2.942-2.106-2.106a1.532 1.532 0 01-2.287-.947zM10 13a3 3 0 100-6 3 3 0 000 6z" clip-rule="evenodd"></path></svg>
                   </div>
                   <h3 className="mb-2 text-xl text-navy font-bold dark:text-white">Share Feedback</h3>
-                  <p className="text-blue dark:text-gray-400">Keep your company’s lights on with customizable, iterative, and structured workflows built for all efficient teams and individual.</p>
+                  <p className="text-blue dark:text-gray-200">Share your interview experiences and insights with others in your network, with real-time feedback and advice that can help you improve your skills and increase your chances of success.</p>
                 </div>
                 <div>
                   <div className="flex justify-center items-center mb-4 w-10 h-10 rounded-full bg-primary-100 lg:h-12 lg:w-12 dark:bg-primary-900 text-light-blue-200">
-                    <svg className="w-5 h-5 text-primary-600 lg:w-6 lg:h-6 dark:text-primary-300" fill="currentColor" viewBox="0 0 20 20" xmlns="http://www.w3.org/2000/svg"><path fill-rule="evenodd" d="M11.49 3.17c-.38-1.56-2.6-1.56-2.98 0a1.532 1.532 0 01-2.286.948c-1.372-.836-2.942.734-2.106 2.106.54.886.061 2.042-.947 2.287-1.561.379-1.561 2.6 0 2.978a1.532 1.532 0 01.947 2.287c-.836 1.372.734 2.942 2.106 2.106a1.532 1.532 0 012.287.947c.379 1.561 2.6 1.561 2.978 0a1.533 1.533 0 012.287-.947c1.372.836 2.942-.734 2.106-2.106a1.533 1.533 0 01.947-2.287c1.561-.379 1.561-2.6 0-2.978a1.532 1.532 0 01-.947-2.287c.836-1.372-.734-2.942-2.106-2.106a1.532 1.532 0 01-2.287-.947zM10 13a3 3 0 100-6 3 3 0 000 6z" clip-rule="evenodd"></path></svg>
+                  <svg className="w-5 h-5 text-primary-600 lg:w-6 lg:h-6 dark:text-lorange" fill="currentColor" viewBox="0 0 20 20" xmlns="http://www.w3.org/2000/svg"><path fill-rule="evenodd" d="M3 3a1 1 0 000 2v8a2 2 0 002 2h2.586l-1.293 1.293a1 1 0 101.414 1.414L10 15.414l2.293 2.293a1 1 0 001.414-1.414L12.414 15H15a2 2 0 002-2V5a1 1 0 100-2H3zm11.707 4.707a1 1 0 00-1.414-1.414L10 9.586 8.707 8.293a1 1 0 00-1.414 0l-2 2a1 1 0 101.414 1.414L8 10.414l1.293 1.293a1 1 0 001.414 0l4-4z" clip-rule="evenodd"></path></svg>
                   </div>
                   <h3 className="mb-2 text-xl text-navy font-bold dark:text-white">Research Companies</h3>
-                  <p className="text-blue dark:text-gray-400">Keep your company’s lights on with customizable, iterative, and structured workflows built for all efficient teams and individual.</p>
-                </div>
+                  <p className="text-blue dark:text-gray-200">Get insights and information on companies and employers you're interested in, with real-time updates on their size, culture, ratings, reviews, and other details that can help you make informed decisions about your career.</p>
+              </div>
               </div>
             </div>
           </section>
           
-          <section className="bg-cream dark:bg-gray-900 border-t-2 border-lorange border-dashed">
+          <section className="bg-cream dark:bg-blue border-t-2 border-lorange border-dashed">
             <div className="py-8 px-4 mx-auto max-w-screen-xl sm:py-16 lg:px-6">
               <div className="mx-auto max-w-screen-sm text-center">
                 <h2 className="mb-4 text-4xl tracking-tight font-extrabold leading-tight text-navy dark:text-white">Start your free trial today</h2>
-                <p className="mb-6 font-light text-blue dark:text-gray-400 md:text-lg">Try Career Companion for 30 days. No credit card required.</p>
+                <p className="mb-6 font-light text-blue dark:text-gray-200 md:text-lg">Try Career Companion for 30 days. No credit card required.</p>
                 <a href="/signup" className="w-40 inline-flex items-center justify-center px-5 py-3 text-base font-bold text-center text-navy bg-lorange border-2 border-lorange hover:border-blue rounded-xl hover:bg-gray-100 focus:ring-4 focus:ring-gray-100 dark:text-white dark:border-gray-700 dark:hover:bg-gray-700 dark:focus:ring-gray-800">Sign Up Now!</a>
               </div>
             </div>

diff --git a/frontend/public/index.html b/frontend/public/index.html
@@ -2,7 +2,7 @@
 <html lang="en">
   <head>
     <meta charset="utf-8" />
-    <link rel="icon" href="%PUBLIC_URL%/favicon.ico" />
+    <link rel="icon" href="/%PUBLIC_URL%/favicon.ico" />
     <meta name="viewport" content="width=device-width, initial-scale=1" />
     <meta name="theme-color" content="#000000" />
     <meta
